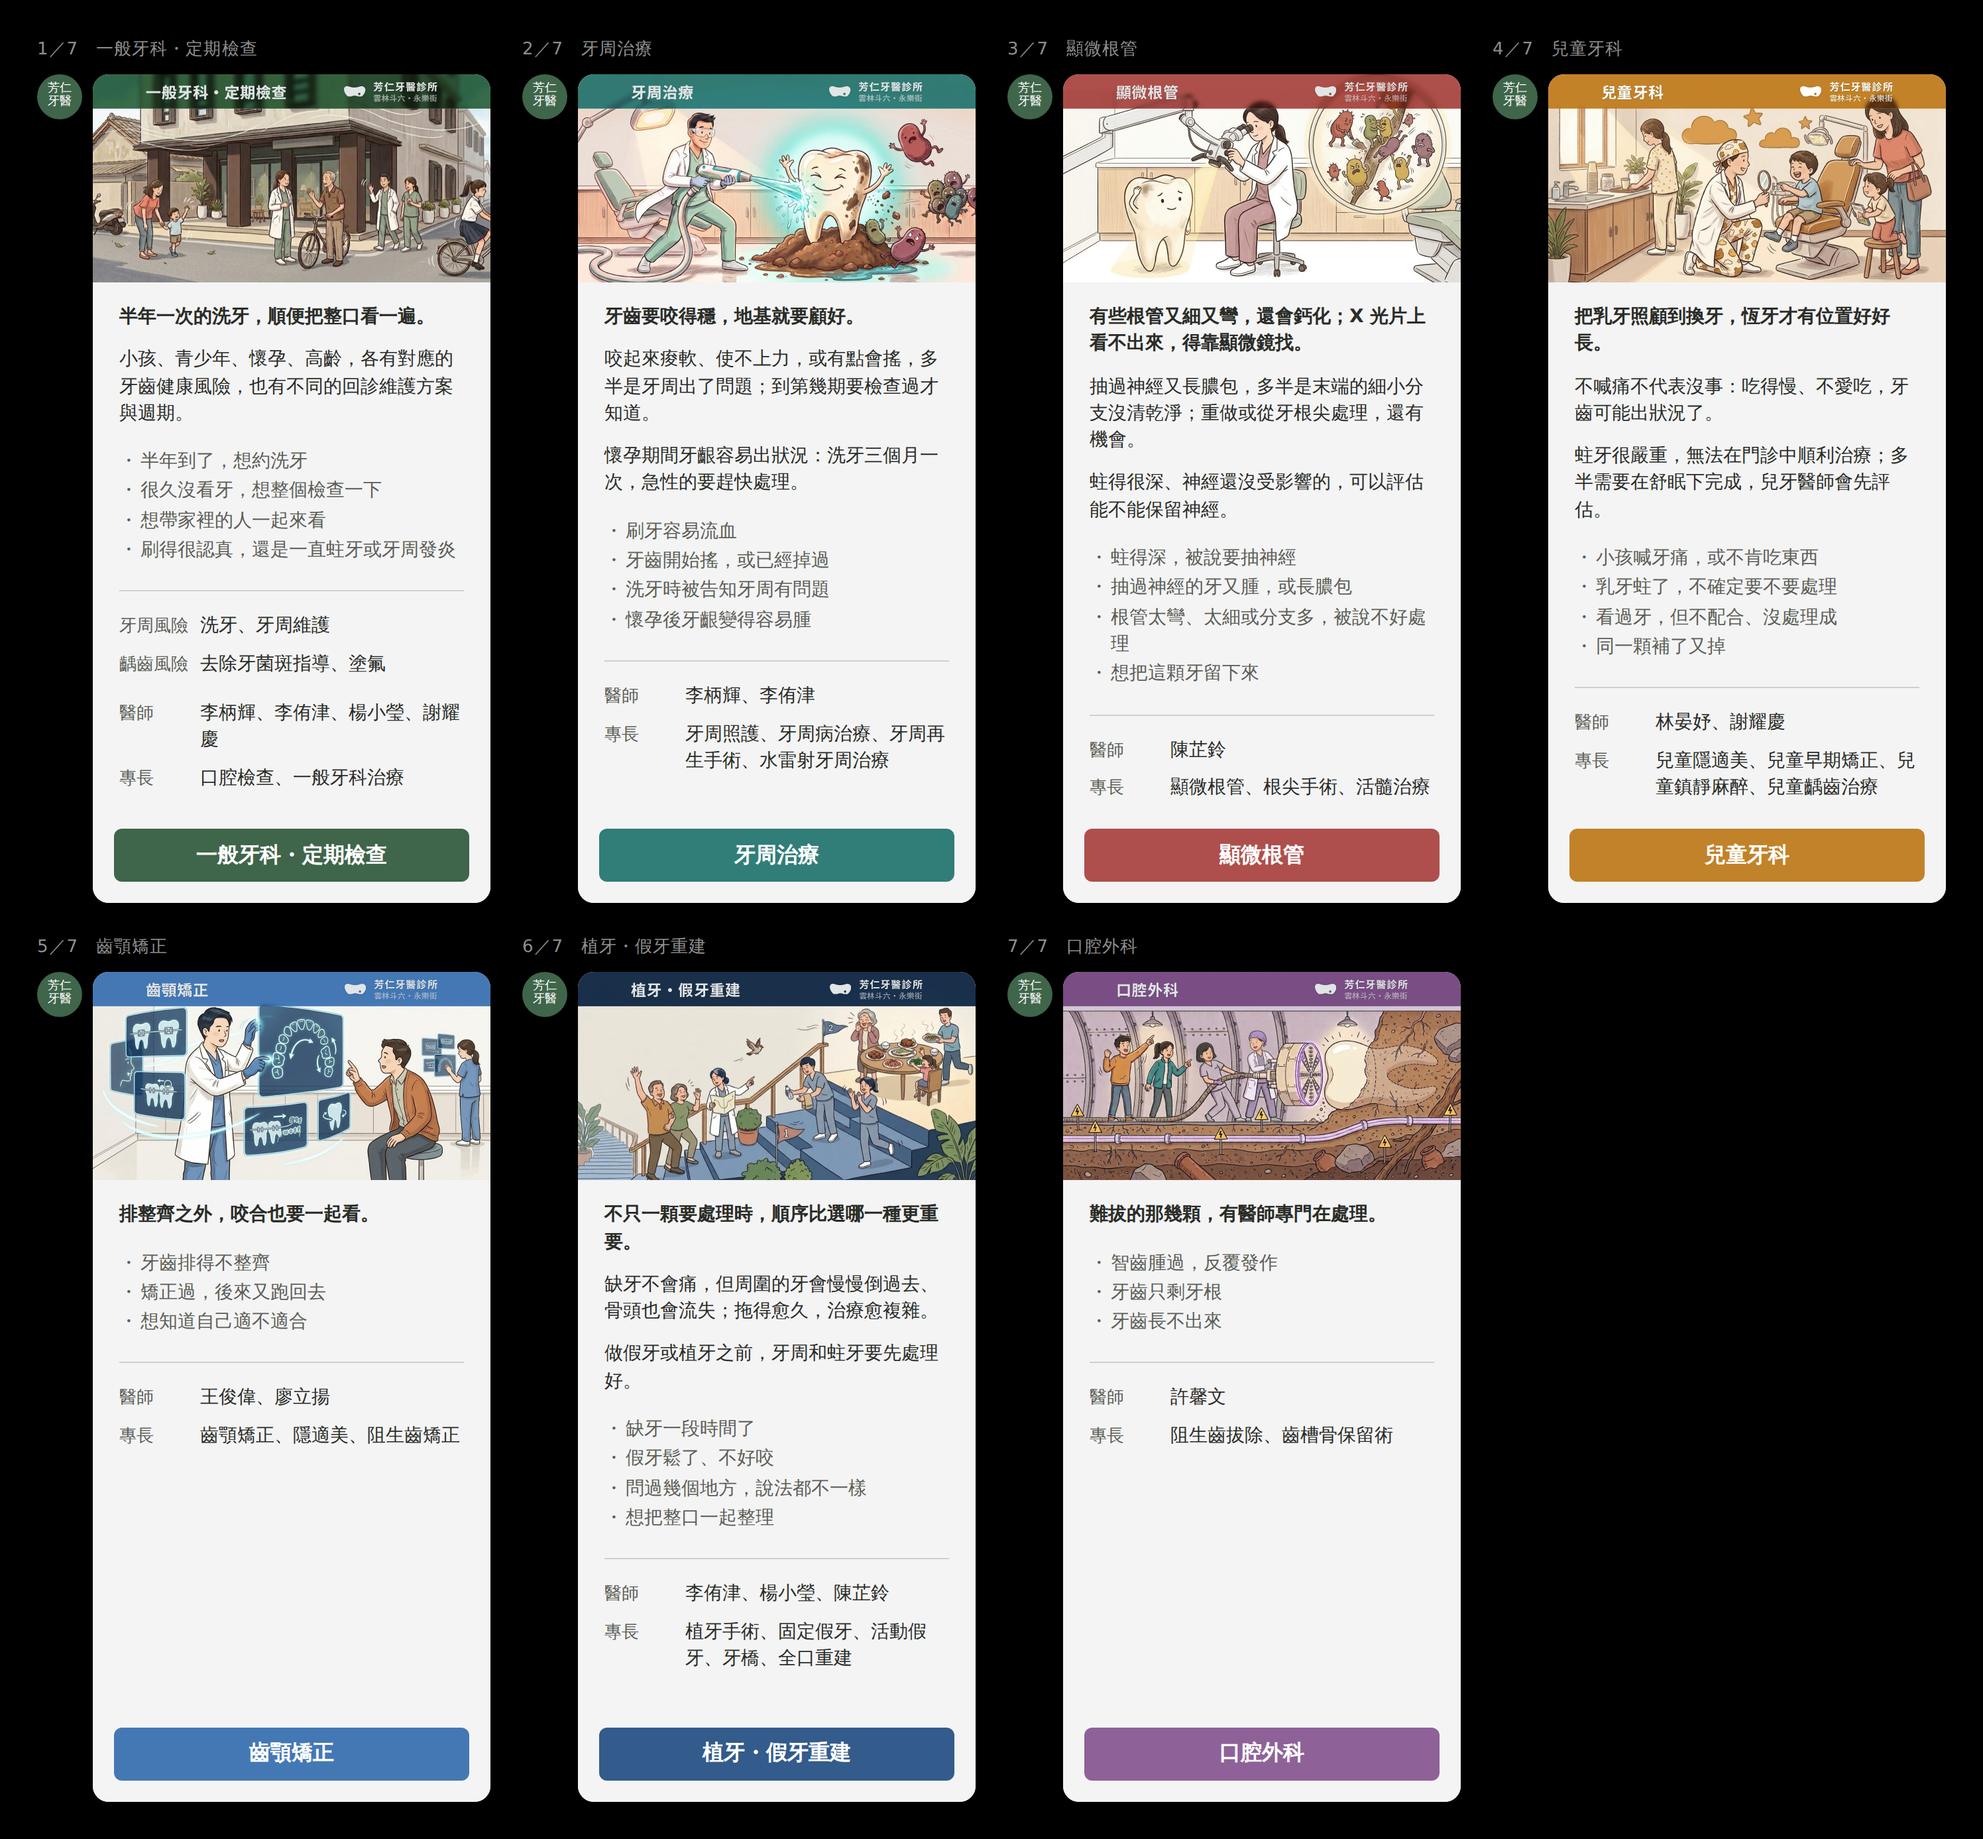
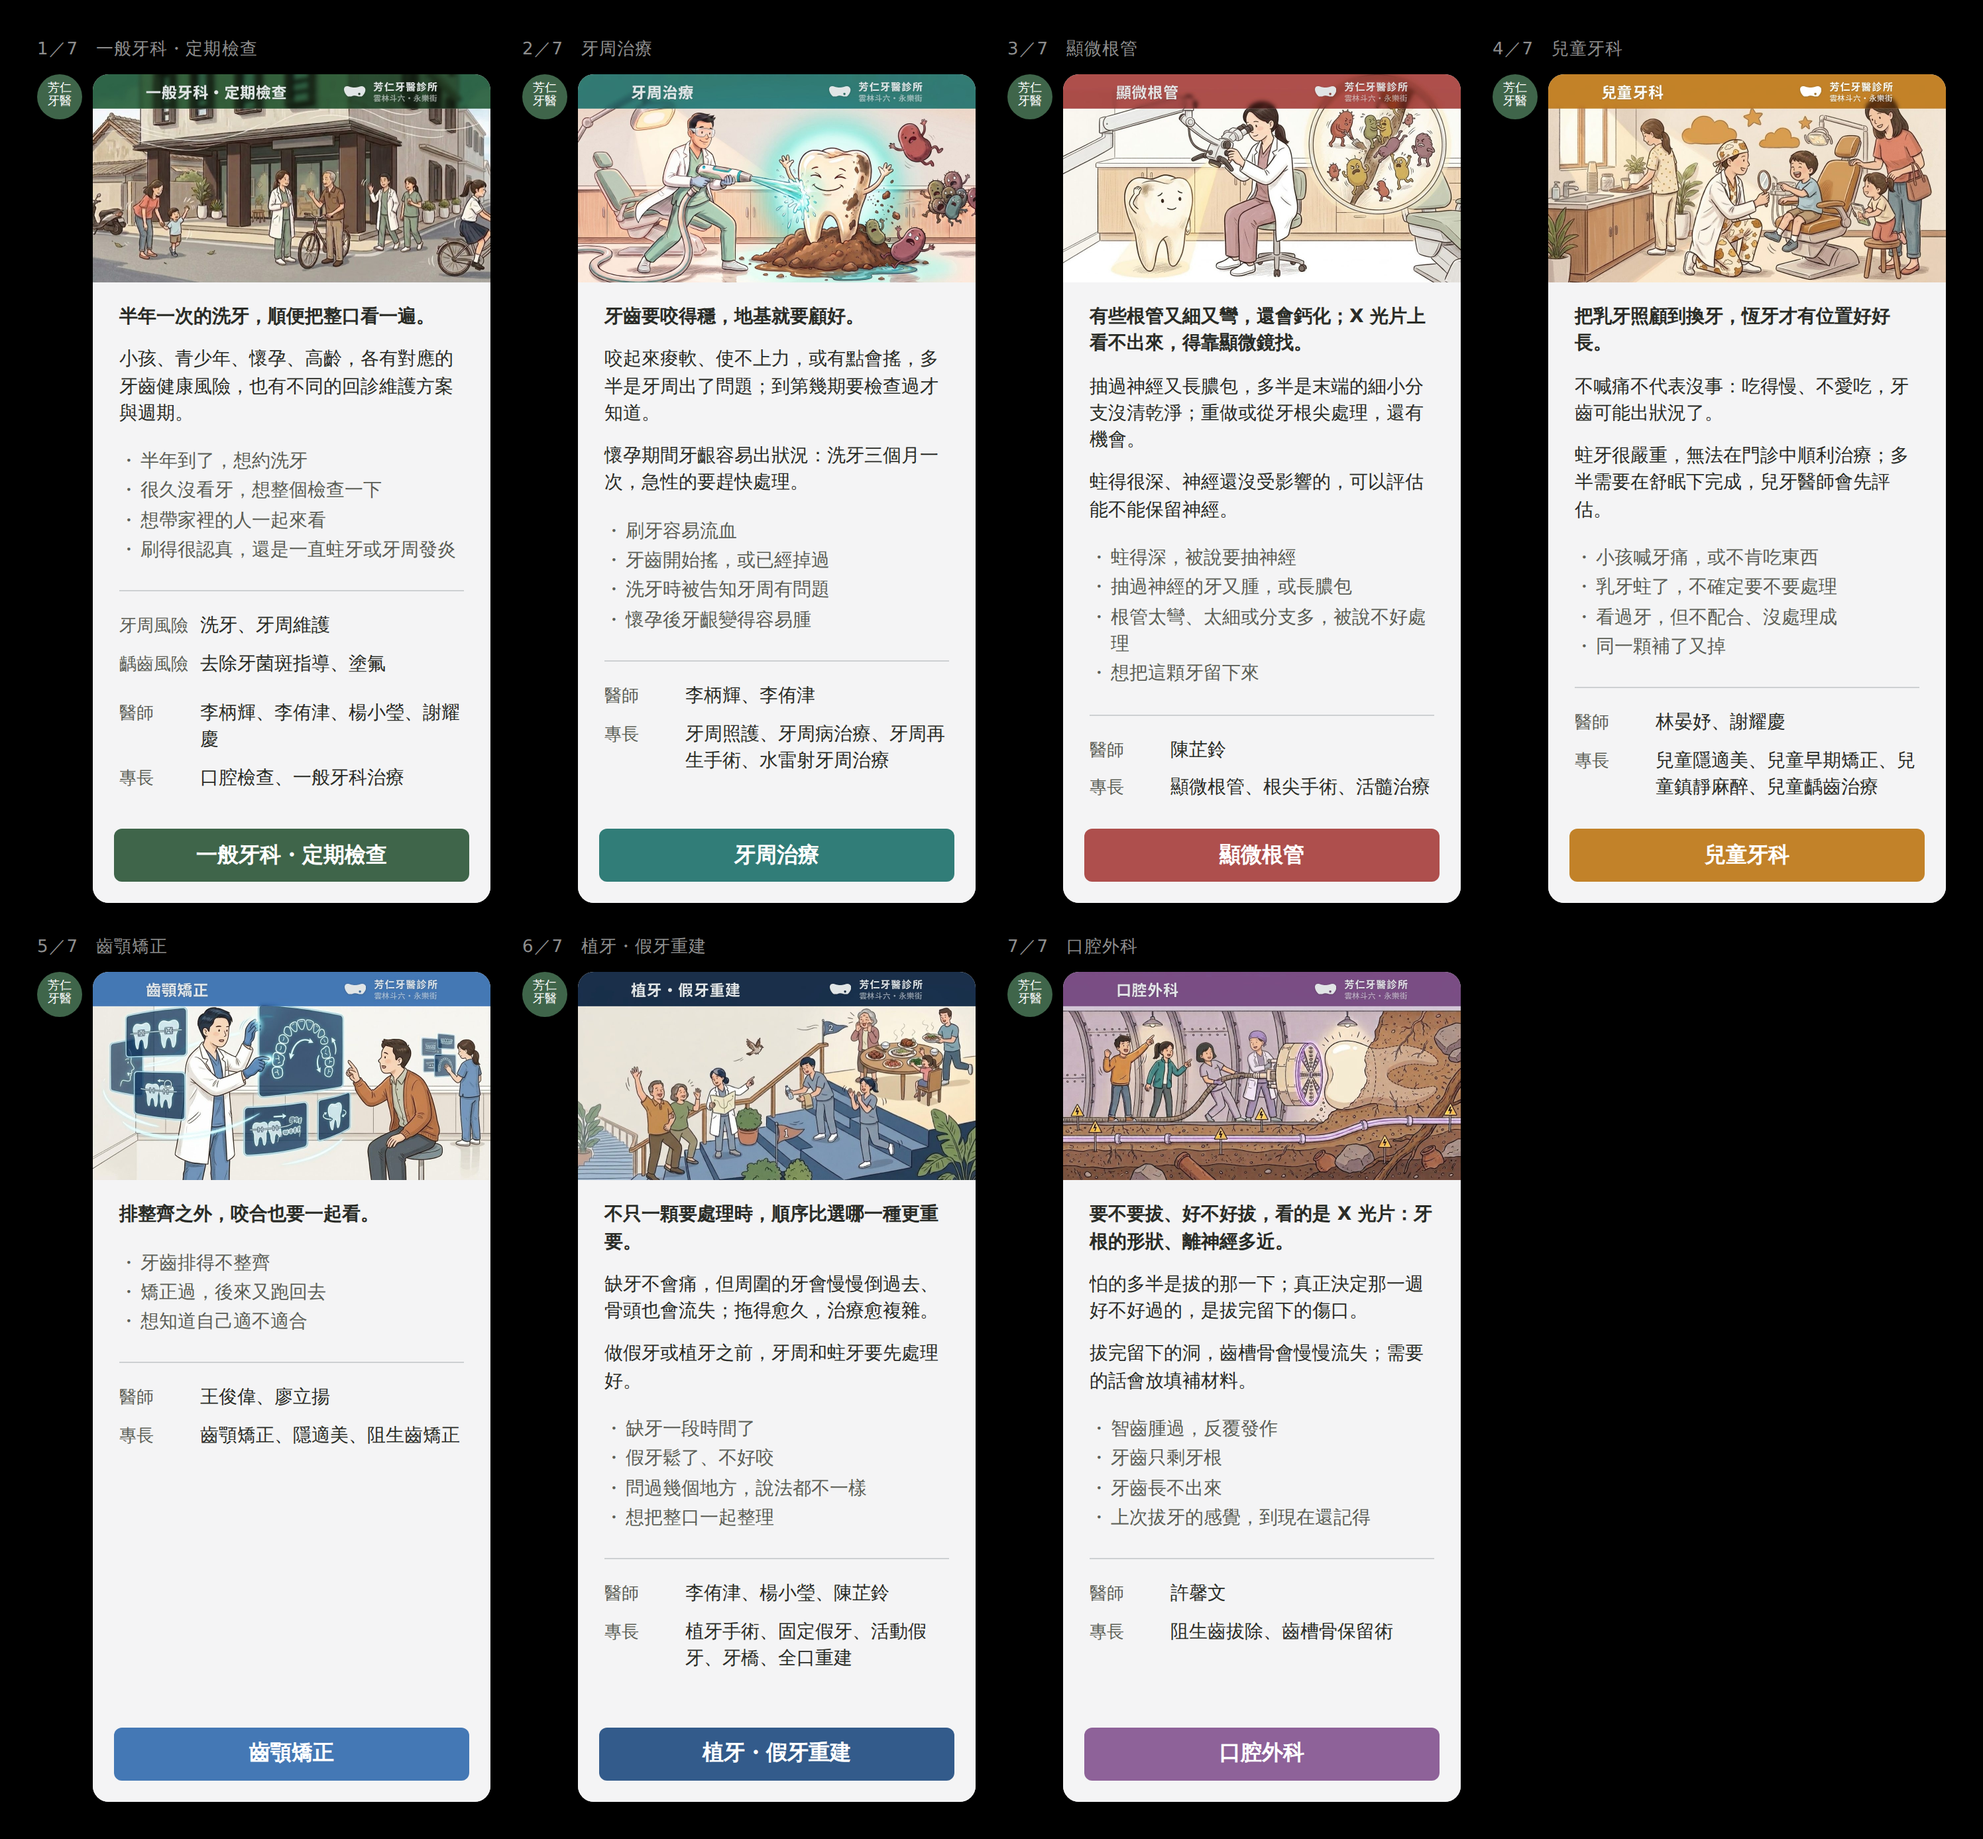
口腔外科整張重寫：從「誰在拔」換成「他自己判斷不了的事」
第一版 open「難拔的那幾顆，有醫師專門在處理」不算錯，但它講的是誰，
不是他自己判斷不了的事。

open ←〈拔智齒之後〉逐字：「要不要拔、好不好拔，看的是 X 光片」。這一句正好和
顯微根管那張互為對照（根管是 X 光片上看不出來，口外是看的就是 X 光片），
兩張不會讀起來像同一句話。沒寫電腦斷層（什麼情況加做、自費怎麼說明還沒問到）。

note① ← 那一篇的開場第一句「怕的通常是『拔』的那一下。但真正決定接下來一週
好不好過的，是拔完之後留下的那個傷口。」這是這一科病人自己解讀不了的事：
他把注意力全放在錯的那一刻。

note② ← flow［之後］＋專長的齒槽骨保留術＋兩篇文章。「需要的話」是邊界，
不是每個洞都要填。沒寫「日後要植牙才有條件」——那會變成在口外卡上先賣植牙。

cases④ 新增「上次拔牙的感覺，到現在還記得」（逐字用著陸頁的，不寫成「會怕」）。
四句涵蓋 2026-08-21 使用者補的範圍：智齒、殘根、長不出來的、有過不好拔牙
經驗的人 —— 那一輪他退回整頁的理由正是「只有講拔智齒」。

版面沒有再長。

Claude-Session: https://claude.ai/code/session_01QMa36HgXCp2rYEV7ykbWqK

Changed region(s): [[0.5284, 0.651, 0.7149, 0.8991]]

diff --git a/drafts/line-oa/README.md b/drafts/line-oa/README.md
@@ -198,7 +198,7 @@ node drafts/line-oa/flex-preview.mjs topics-carousel.json     # → preview-topi
 | 兒童牙科 | 乳牙撐到換牙，恆牙才排得進來。<br>（另有兩句 `note`：不喊痛不代表沒事／舒眠） | flow［留位置］＋groups①reply＋flow［先試過］ |
 | 齒顎矯正 | 排整齊之外，咬合也要一起看。 | stance |
 | 植牙・假牙重建 | 不只一顆要處理時，順序比選哪一種更重要。<br>（另有兩句 `note`：缺牙不會痛／先打底） | lead＋flowTitle＋〈缺牙之後〉那一篇 |
-| 口腔外科 | 難拔的那幾顆，有醫師專門在處理。 | stance＋close |
+| 口腔外科 | 要不要拔、好不好拔，看的是 X 光片：牙根的形狀、離神經多近。<br>（另有兩句 `note`：怕錯了那一刻／拔完那個洞） | 〈拔智齒之後〉那一篇逐字＋flow［之後］ |
 
 ⚠ 四句刻意沒有那樣寫：
 ・根管不寫「盡量幫你留」（空白支票，COPY.md 第九之十六節）
@@ -703,5 +703,42 @@ CLAUDE.md 第九節那張表裡**還沒問到**的事，不要自己補。
 ⚠ **`全口重建` 只留在 `專長` 那一欄**，卡片上一個字都不多提 ——
 同活髓那條：適應症有限、金額高的處置，不在卡片上招客。
 這一張的兩句 note 反而是把人往「先打底」帶。
+
+⚠ 版面沒有再長（1387 CSS px）。
+
+### 第十八輪：口腔外科整張重寫（2026-08-27）
+
+第一版 open「難拔的那幾顆，有醫師專門在處理」不算錯（頭銜寫成「醫師在做的那件事」），
+但它講的是**誰**，不是**他自己判斷不了的事**。
+
+定案：
+
+> **要不要拔、好不好拔，看的是 X 光片：牙根的形狀、離神經多近。**
+> 怕的多半是拔的那一下；真正決定那一週好不好過的，是拔完留下的傷口。
+> 拔完留下的洞，齒槽骨會慢慢流失；需要的話會放填補材料。
+> ・智齒腫過，反覆發作　・牙齒只剩牙根　・牙齒長不出來　・上次拔牙的感覺，到現在還記得
+
+**open** ←〈拔智齒之後〉（`posts/wisdom-tooth/`）**逐字**：「要不要拔、好不好拔，
+看的是 X 光片 —— 牙根有幾根、長什麼形狀、離下顎神經管多近。」只把後半收短成兩件。
+⚠ 這一句正好和顯微根管那張**互為對照**：根管是「X 光片上看不出來，得靠顯微鏡」，
+口外是「**看的就是 X 光片**」。兩張不會讀起來像同一句話。
+⚠ 沒有寫「電腦斷層」——那一篇有寫「必要時會再拍」，但**什麼情況加做、自費怎麼說明**
+是那張表裡還沒問到的事。
+
+**note①** ←〈拔智齒之後〉的**開場第一句**：「怕的通常是『拔』的那一下。
+但真正決定接下來一週好不好過的，是拔完之後留下的那個傷口。」
+⚠⚠ 這是這一科「病人自己解讀不了的事」（同牙周的痠軟、兒牙的不喊痛、植牙的不會痛）：
+**他把注意力全放在錯的那一刻。** 而且它同時把診所真正在做的事帶出來（術後怎麼照顧會先交代）。
+
+**note②** ← flow［之後］「需要的話會填補材料」＋`專長`的「齒槽骨保留術」
+＋〈拔智齒之後〉整節「那個洞，要不要放東西進去」＋〈缺牙之後〉的「齒槽骨吸收」。
+⚠ 「**需要的話**」是邊界 —— 不是每個洞都要填。
+⚠ **沒有寫「日後要植牙才有條件」** —— 那會變成在口外卡上先賣植牙。
+
+**cases** ④新增，逐字用著陸頁的「上次拔牙的感覺，到現在還記得」。
+⚠ **不寫成「會怕」**（記得比怕更具體，也沒有替他下判斷），
+也**不寫「不必硬來」**（否定句會把畫面塞進他腦子裡）。
+⚠ 四句涵蓋使用者 2026-08-21 補的範圍：智齒、**殘根**、**長不出來的**、
+**有過不好拔牙經驗的人** —— 那一輪他退回整頁的理由正是「只有講拔智齒」。
 
 ⚠ 版面沒有再長（1387 CSS px）。
